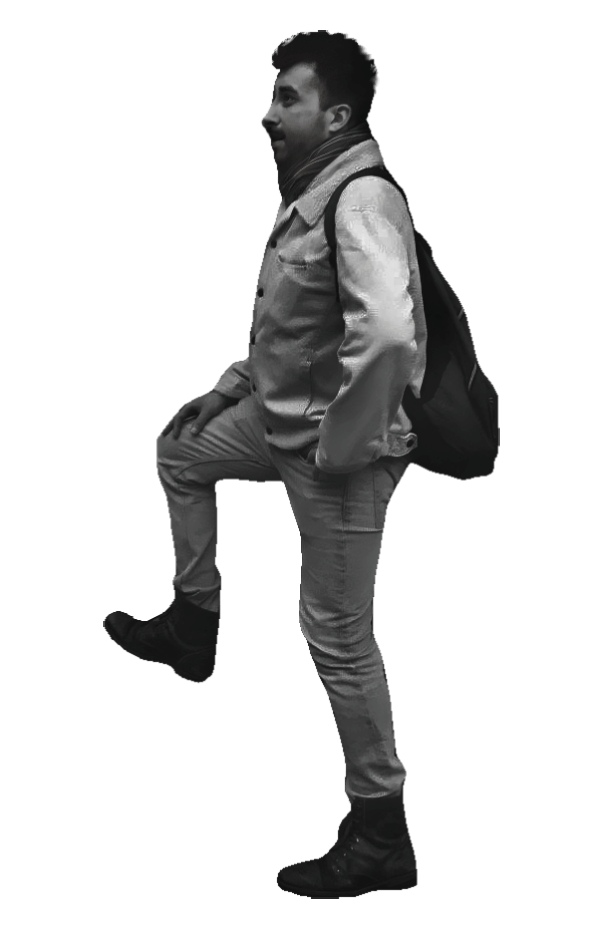
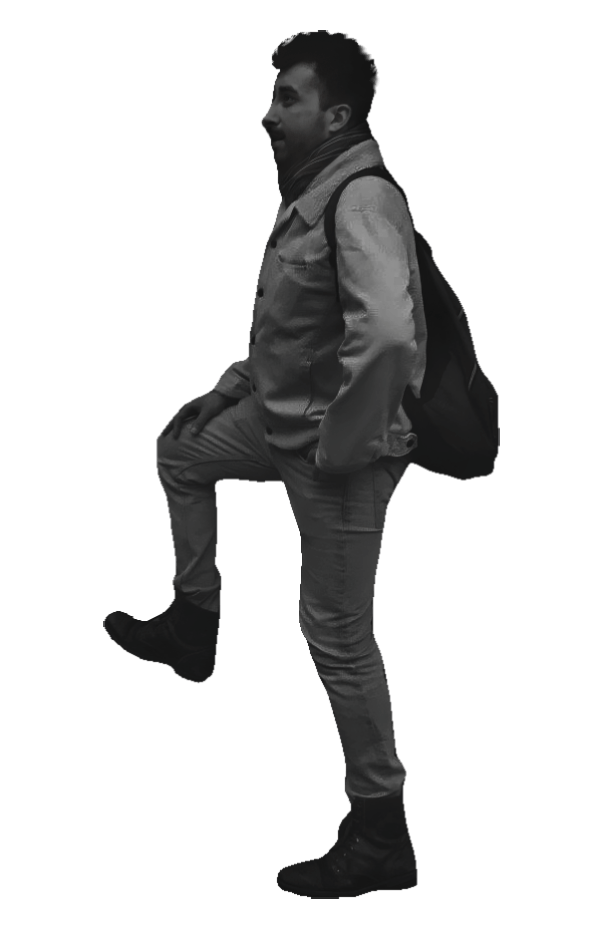
reduce about image colors

diff --git a/src/pages/projects/projectsData.tsx b/src/pages/projects/projectsData.tsx
@@ -12,7 +12,7 @@ import bgEnde from './images/ende.jpg';
 import bgFaber from './images/faber.jpg';
 import bgFaberBooks from './images/faber-books.jpg';
 import bgBentley from './images/bentley.jpg';
-import bgGalleryImg from './images/gallery-img.png';
+import bgGalleryImg from './images/gallery-img.webp';
 import bgStartup from './images/startup.webp';
 import nascentdesign from './images/nascentdesign.webp';
 
